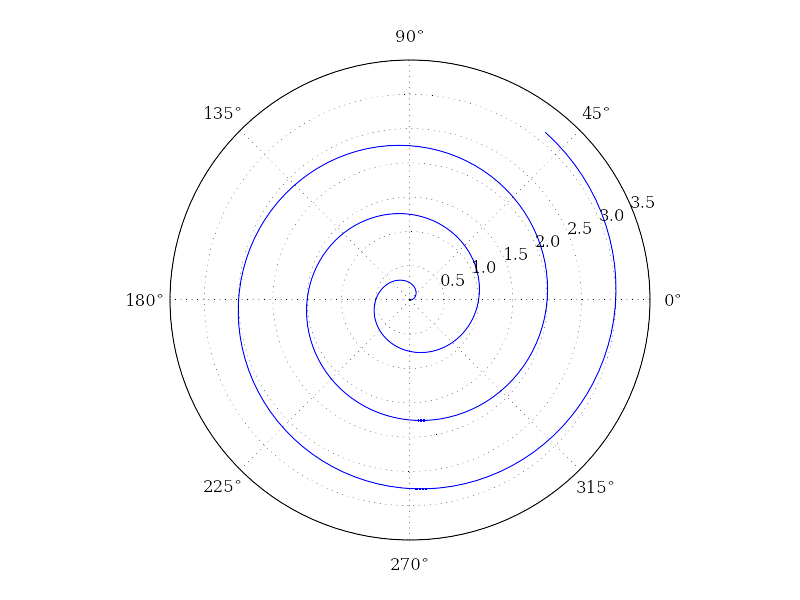
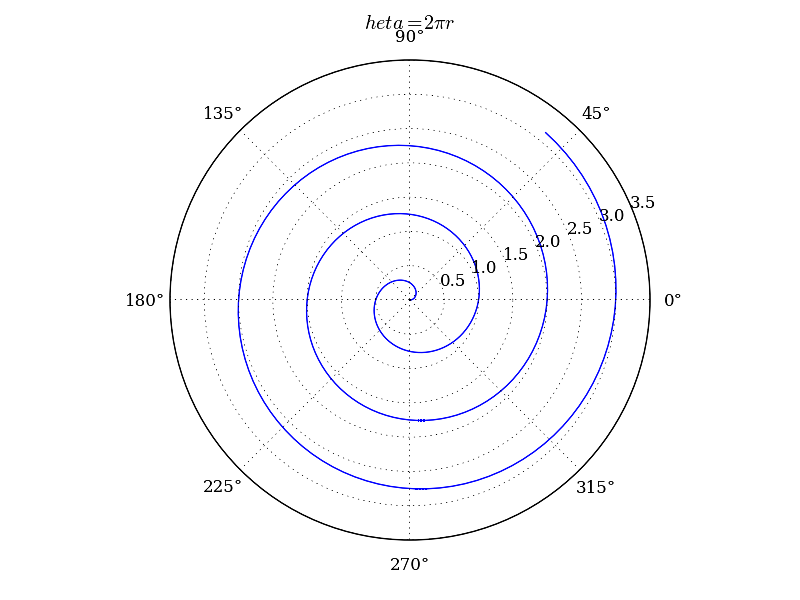
Fix demo typo && use relative link

diff --git a/README.md b/README.md
@@ -25,14 +25,14 @@ figure()
 
 # generate data
 r = linspace(0, pi, 301)
-theta = 2 * pi * x
+theta = 2 * pi * r
 
 # plot
-polar(theta, x)
-savefig("demo.png")
+polar(theta, r)
+savefig("demo/demo.png")
 ```
 
-![screenshot](https://github.com/autozimu/pyplot.jl/raw/master/demo/demo.png)
+![screenshot](demo/demo.png)
 
 ## Features
 
